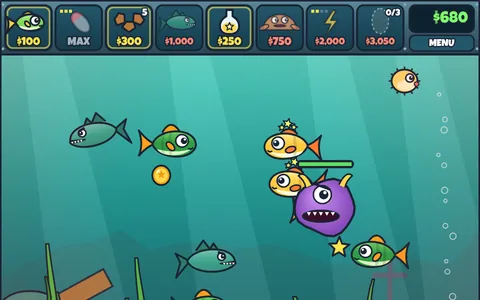
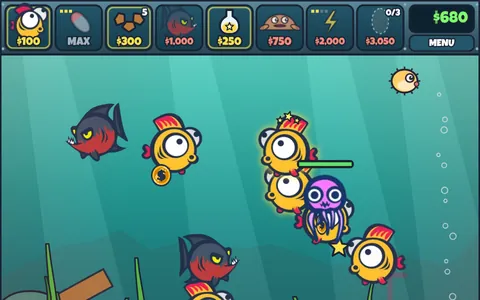
Reef Keeper: sprites from two free fish packs
Andrew Tidey's Fish Set (CC0): guppies with their sick and dead art, the
carnivore, coins, diamond, the jellyfish for the Gobbler (teal for the Twins)
and the first world's tank. Game Developer Studio's Cartoon fish (CC-BY 3.0):
animated breeder, muncher and leviathan, with hungry, dead and flash variants
made from the pixels at load time. Converted to WebP (about 300 KB in all).
The game falls back to its drawn art if an image can't load. Credited in
CREDITS.md, the README and sprites/LICENSE.txt.

diff --git a/Reef_Keeper/src/render.js b/Reef_Keeper/src/render.js
@@ -5,6 +5,7 @@
  * scaled to fit the canvas.
  */
 import { FRAME, BAR, TANK, FISH, COINS, ALIENS, FOOD, PETS } from './config.js';
+import { loadSprites, sprite, STRIPS } from './sprites.js';
 
 const INK = '#1a2433';
 const FONT = '"Luckiest Guy", "Chakra Petch", system-ui, sans-serif';
@@ -45,6 +46,11 @@ export const MENU = { x: 546, y: 47, w: 86, h: 21 };
 
 export function createRenderer(canvas) {
   const main = canvas.getContext('2d');
+  let spritesReady = false;
+  loadSprites(() => {
+    spritesReady = true;
+    bgKey = ''; // rebuild the tank with its painted background
+  });
   let ctx = main;
   let view = { scale: 1, dpr: 1, ox: 0, oy: 0, cssW: FRAME.w, cssH: FRAME.h };
   let bgKey = '';
@@ -98,6 +104,60 @@ export function createRenderer(canvas) {
     ctx.fillText(str, x, y);
   }
 
+  /* ---------- Sprites ---------- */
+
+  /** Draw an image (or one frame of a strip) centred at (x, y), `w` wide. */
+  function drawSprite(name, x, y, w, frame = 0) {
+    const img = sprite(name);
+    if (!img) return false;
+    const frames = STRIPS[name.replace(/-(hungry|dead|flash|teal)$/, '')] ?? 1;
+    const fw = (img.naturalWidth || img.width) / frames;
+    const fh = img.naturalHeight || img.height;
+    const h = (w * fh) / fw;
+    ctx.drawImage(img, (frame % frames) * fw, 0, fw, fh, x - w / 2, y - h / 2, w, h);
+    return true;
+  }
+
+  /** Swap in a crossfade: `a` at full strength, `b` on top at `k`. */
+  function blend(a, b, k, x, y, w, frame) {
+    drawSprite(a, x, y, w, frame);
+    if (k > 0.02 && sprite(b)) {
+      ctx.globalAlpha *= k;
+      drawSprite(b, x, y, w, frame);
+      ctx.globalAlpha /= k;
+    }
+  }
+
+  const hungerOf = (f, world) => (!f.dead && world.isHungry(f) ? Math.min(1, (world.time - f.fedUntil) / 240) : 0);
+  const eatPulse = (f) => (f.eatT > 0 ? 1 + 0.14 * Math.sin((f.eatT / 16) * Math.PI) : 1);
+
+  /** Andrew Tidey's fish (they face right). Dead fish use their own upright art. */
+  function tideyFish(base, f, t, world, width) {
+    if (f.dead) {
+      ctx.scale(1, -1); // drawFish turned the fish belly up; this art is drawn that way already
+      drawSprite(`${base}-dead`, 0, 0, width);
+      return;
+    }
+    const wob = Math.sin(t / 7 + f.phase) * 0.05;
+    const k = eatPulse(f);
+    ctx.rotate(wob);
+    ctx.scale(k, k * (1 + Math.sin(t / 5 + f.phase) * 0.025));
+    blend(base, `${base}-sick`, hungerOf(f, world), 0, 0, width);
+  }
+
+  /** Game Developer Studio's swimming fish (they face left, 12 frames). */
+  function cartoonFish(name, f, t, world, width) {
+    const frame = Math.floor(t * 0.35 + f.phase * 7);
+    ctx.scale(-1, 1);
+    if (f.dead) {
+      drawSprite(`${name}-dead`, 0, 0, width, 0);
+      return;
+    }
+    const k = eatPulse(f);
+    ctx.scale(k, k);
+    blend(name, `${name}-hungry`, hungerOf(f, world), 0, 0, width, frame);
+  }
+
   /* ---------- Tank background (cached per level and size) ---------- */
 
   function rock(g, x, y, w, h, fill, shade) {
@@ -139,6 +199,17 @@ export function createRenderer(canvas) {
     g.fillRect(0, TANK.y, TANK.w, TANK.h);
     let seed = level * 131 + 7;
     const rnd = () => ((seed = (seed * 16807) % 2147483647) / 2147483647);
+    // The first tank uses Andrew Tidey's painted background.
+    if (level === 0 && sprite('tank-shallows')) {
+      const img = sprite('tank-shallows');
+      const h = (TANK.w * img.naturalHeight) / img.naturalWidth;
+      g.drawImage(img, 0, FRAME.h - h, TANK.w, h);
+      g.restore();
+      plants = [];
+      bg = c;
+      bgKey = `${level}:${canvas.width}x${canvas.height}:${spritesReady}`;
+      return;
+    }
     // Far rocks, hazy.
     g.globalAlpha = 0.35;
     g.fillStyle = P.rock;
@@ -300,7 +371,7 @@ export function createRenderer(canvas) {
       plants.push({ x: 20 + rnd() * (TANK.w - 40), h: 50 + rnd() * 90, w: 9 + rnd() * 6, color: rnd() < 0.5 ? P.plant : P.plant2, phase: rnd() * 6, glow: level === 4 });
     }
     bg = c;
-    bgKey = `${level}:${canvas.width}x${canvas.height}`; // level here is the world index
+    bgKey = `${level}:${canvas.width}x${canvas.height}:${spritesReady}`; // level here is the world index
   }
 
   function drawPlants(t) {
@@ -414,6 +485,17 @@ export function createRenderer(canvas) {
 
   function guppy(f, t, world) {
     const L = world.sizeOf(f);
+    const art = `guppy-${['small', 'medium', 'large', 'large'][f.stage]}`;
+    if (sprite(art)) {
+      if (f.stage === 3 && !f.dead) {
+        ctx.shadowColor = '#ffe14d';
+        ctx.shadowBlur = 14;
+      }
+      tideyFish(art, f, t, world, L * 2.5);
+      ctx.shadowBlur = 0;
+      if (f.stage === 3 && !f.dead) for (let i = 0; i < 3; i++) starShape(-L * 0.35 + i * L * 0.35, -L * 1.05 - (i === 1 ? 5 : 0), 5 + (i === 1 ? 2 : 0), '#fff36b', Math.sin(t / 10 + i));
+      return;
+    }
     const H = L * 0.62;
     const hungry = !f.dead && world.isHungry(f);
     const hungerT = hungry ? Math.min(1, (world.time - f.fedUntil) / 240) : 0;
@@ -523,6 +605,7 @@ export function createRenderer(canvas) {
 
   function carnivore(f, t, world) {
     const L = FISH.carnivore.size;
+    if (sprite('predator')) return tideyFish('predator', f, t, world, L * 2.4);
     const H = L * 0.5;
     const hungry = !f.dead && world.isHungry(f);
     const body = f.dead ? '#9aa0a8' : hungry ? '#7fb39c' : '#3fa58c';
@@ -578,6 +661,23 @@ export function createRenderer(canvas) {
 
   function breeder(f, t, world) {
     const L = FISH.breeder.size;
+    if (sprite('fish-purple')) {
+      cartoonFish('fish-purple', f, t, world, L * 2.5);
+      if (!f.dead) {
+        // Her bow, so she reads as the breeder.
+        ctx.beginPath();
+        ctx.moveTo(L * 0.1, -L * 0.62);
+        ctx.lineTo(-L * 0.2, -L * 0.85);
+        ctx.lineTo(-L * 0.2, -L * 0.42);
+        ctx.closePath();
+        ctx.moveTo(L * 0.1, -L * 0.62);
+        ctx.lineTo(L * 0.4, -L * 0.85);
+        ctx.lineTo(L * 0.4, -L * 0.42);
+        ctx.closePath();
+        ink('#ffd84d', 2);
+      }
+      return;
+    }
     const H = L * 0.85;
     const hungry = !f.dead && world.isHungry(f);
     const body = f.dead ? '#a8a0a8' : hungry ? '#c9c79a' : '#ff8fc7';
@@ -612,6 +712,7 @@ export function createRenderer(canvas) {
 
   function leviathan(f, t, world) {
     const L = FISH.leviathan.size;
+    if (sprite('fish-black')) return cartoonFish('fish-black', f, t, world, L * 2.6);
     const H = L * 0.55;
     const hungry = !f.dead && world.isHungry(f);
     const body = f.dead ? '#9aa0a8' : hungry ? '#8a8fb0' : '#4a5bb8';
@@ -714,6 +815,7 @@ export function createRenderer(canvas) {
 
   function muncher(f, t, world) {
     const L = FISH.muncher.size;
+    if (sprite('fish-blue')) return cartoonFish('fish-blue', f, t, world, L * 2.4);
     const H = L * 0.7;
     const hungry = !f.dead && world.isHungry(f);
     const body = f.dead ? '#a0a0a0' : hungry ? '#b5a46a' : '#56c2e6';
@@ -767,6 +869,15 @@ export function createRenderer(canvas) {
 
   function coin(type, x, y, spin = 0, scale = 1) {
     const r = COINS[type].r * scale;
+    const art = { silver: 'coin-silver', gold: 'coin-gold', diamond: 'diamond' }[type];
+    if (art && sprite(art)) {
+      ctx.save();
+      ctx.translate(x, y);
+      if (type !== 'diamond') ctx.scale(0.35 + 0.65 * Math.abs(Math.cos(spin)), 1);
+      drawSprite(art, 0, 0, r * 2.3);
+      ctx.restore();
+      return;
+    }
     ctx.save();
     ctx.translate(x, y);
     if (type === 'silver' || type === 'gold') {
@@ -1174,7 +1285,13 @@ export function createRenderer(canvas) {
     ctx.save();
     ctx.translate(a.x, a.y);
     const r = spec.r;
-    if (a.kind === 'gobbler' || a.kind === 'twins') {
+    if ((a.kind === 'gobbler' || a.kind === 'twins') && sprite('jelly')) {
+      // Andrew Tidey's jellyfish, pulsing through its six frames.
+      const name = flash ? 'jelly-flash' : a.kind === 'twins' ? 'jelly-teal' : 'jelly';
+      const k = a.chomp > 0 ? 1 + 0.15 * Math.sin((a.chomp / 20) * Math.PI) : 1;
+      ctx.scale(k, k);
+      drawSprite(name, 0, 0, r * 1.5, Math.floor(t / 7));
+    } else if (a.kind === 'gobbler' || a.kind === 'twins') {
       // A wobbly blob, mostly mouth. Twins are smaller and teal.
       const twin = a.kind === 'twins';
       ctx.beginPath();
@@ -1537,7 +1654,7 @@ export function createRenderer(canvas) {
   /* ---------- Frame ---------- */
 
   function draw(world, ui, fx, t) {
-    if (bgKey !== `${world.world}:${canvas.width}x${canvas.height}`) buildBackground(world.world);
+    if (bgKey !== `${world.world}:${canvas.width}x${canvas.height}:${spritesReady}`) buildBackground(world.world);
     ctx = main;
     ctx.setTransform(1, 0, 0, 1, 0, 0);
     ctx.drawImage(bg, 0, 0);

diff --git a/Reef_Keeper/src/sprites.js b/Reef_Keeper/src/sprites.js
@@ -1,0 +1,89 @@
+/**
+ * Sprite art from two free packs (see sprites/LICENSE.txt):
+ * Andrew Tidey's "Fish Pack" (CC0) for guppies, the carnivore, coins, the
+ * diamond, the jellyfish alien and the first tank; Game Developer Studio's
+ * "Cartoon fish" (CC-BY 3.0) for the breeder, muncher and leviathan.
+ *
+ * Everything loads in the background; until an image is ready (or if it fails)
+ * the renderer draws its own vector art instead. Variants the packs don't
+ * have, a hungry tint, a grey dead fish and a white hit flash, are made here
+ * once from the pixels.
+ */
+
+const BASE = new URL('../sprites/', import.meta.url);
+
+const FILES = [
+  'guppy-small', 'guppy-small-sick', 'guppy-small-dead',
+  'guppy-medium', 'guppy-medium-sick', 'guppy-medium-dead',
+  'guppy-large', 'guppy-large-sick', 'guppy-large-dead',
+  'predator', 'predator-sick', 'predator-dead',
+  'coin-silver', 'coin-gold', 'diamond', 'jelly', 'tank-shallows',
+  'fish-black', 'fish-blue', 'fish-purple',
+];
+
+/** Strips: name -> frame count. Frames are laid out left to right. */
+export const STRIPS = { jelly: 6, 'fish-black': 12, 'fish-blue': 12, 'fish-purple': 12 };
+
+const images = {};
+let pending = FILES.length;
+
+function recolor(img, fn) {
+  const c = document.createElement('canvas');
+  c.width = img.naturalWidth || img.width;
+  c.height = img.naturalHeight || img.height;
+  const g = c.getContext('2d', { willReadFrequently: true });
+  g.drawImage(img, 0, 0);
+  const data = g.getImageData(0, 0, c.width, c.height);
+  const d = data.data;
+  for (let i = 0; i < d.length; i += 4) {
+    if (!d[i + 3]) continue;
+    const [r, gg, b] = fn(d[i], d[i + 1], d[i + 2]);
+    d[i] = r;
+    d[i + 1] = gg;
+    d[i + 2] = b;
+  }
+  g.putImageData(data, 0, 0);
+  return c;
+}
+
+const gray = (r, g, b) => 0.3 * r + 0.59 * g + 0.11 * b;
+// Hungry: drained towards a sickly olive, like the pack's own sick guppies.
+const hungry = (r, g, b) => {
+  const y = gray(r, g, b);
+  return [y * 0.55 + 150 * 0.45 * (y / 255) + 20, y * 0.55 + 160 * 0.45 * (y / 255) + 18, y * 0.45 + 70 * 0.45 * (y / 255)];
+};
+const dead = (r, g, b) => {
+  const y = gray(r, g, b) * 0.85 + 30;
+  return [y, y, y * 1.03];
+};
+const white = () => [255, 255, 255];
+// Twins: the purple jellyfish turned teal.
+const teal = (r, g, b) => [g * 0.6, Math.min(255, r * 0.75 + 40), Math.min(255, b * 0.85 + 20)];
+
+export function loadSprites(onReady = () => {}) {
+  if (typeof Image === 'undefined') return images;
+  for (const name of FILES) {
+    const img = new Image();
+    img.decoding = 'async';
+    img.onload = () => {
+      images[name] = img;
+      if (name.startsWith('fish-')) {
+        images[`${name}-hungry`] = recolor(img, hungry);
+        images[`${name}-dead`] = recolor(img, dead);
+      }
+      if (name === 'jelly') {
+        images['jelly-flash'] = recolor(img, white);
+        images['jelly-teal'] = recolor(img, teal);
+      }
+      if (name === 'predator') images['predator-flash'] = recolor(img, white);
+      if (--pending === 0) onReady();
+    };
+    img.onerror = () => {
+      if (--pending === 0) onReady();
+    };
+    img.src = new URL(`${name}.webp`, BASE).href;
+  }
+  return images;
+}
+
+export const sprite = (name) => images[name] ?? null;

diff --git a/Reef_Keeper/README.md b/Reef_Keeper/README.md
@@ -8,7 +8,22 @@ An aquarium money game in the style of PopCap's *Insaniquarium* (2001), written 
 - three egg pieces to clear a level;
 - pets that hatch from the eggs and help you.
 
-The fish, aliens, pets, art, music and sounds are original and drawn in code. The only files are the icon and two OFL fonts (Luckiest Guy, Balsamiq Sans).
+## Art
+
+- **Andrew Tidey's [Fish Set](https://opengameart.org/content/fish-set) (CC0):**
+  - the guppies, in normal, sick (hungry) and dead versions;
+  - the carnivore;
+  - the silver and gold coins and the diamond;
+  - the jellyfish, the Gobbler alien (tinted teal for the Twins);
+  - the first world's tank.
+- **Robert Brooks / [Game Developer Studio](https://www.gamedeveloperstudio.com)'s [Cartoon fish](https://opengameart.org/content/cartoon-fish) (CC-BY 3.0):** the swimming breeder (purple), muncher (blue) and leviathan (black). The hungry tint and grey dead versions are made from these sprites by `src/sprites.js` when the game loads.
+- **Drawn in code, in the same outlined cartoon style:**
+  - the other fish, aliens and pets;
+  - the star, pearl, chest, food and grubs;
+  - the other four tanks.
+- **Fonts:** Luckiest Guy and Balsamiq Sans (OFL).
+
+`sprites/LICENSE.txt` lists which file comes from which pack. If an image can't load, the game draws its own version instead.
 
 ## Modes
 
@@ -106,6 +121,7 @@ CI runs it from `.github/workflows/smoke.yml`.
 | `src/config.js` | Balance and content: fish, coins, food, zapper, aliens, pets, worlds, level builder, endless and free tank |
 | `src/pars.js` | Target time per level (generated) |
 | `src/sim.js` | Game logic: fish AI, hunger and growth, coins, food, grubs and potions, pets, aliens, bombs, shop. Pure, no DOM |
+| `src/sprites.js` | Loads the sprite packs and makes the hungry, dead, flash and teal variants |
 | `src/render.js` | The 640 × 480 frame: shop bar, money box, tank, every character, coins, effects, tooltips, tutorial hints |
 | `src/fx.js` | Ripples, bubbles, stars, floating text, coins flying to the money box, shake |
 | `src/audio.js` | WebAudio effects and an original calm loop that turns tense when an alien arrives |

diff --git a/CREDITS.md b/CREDITS.md
@@ -31,7 +31,9 @@ Entries marked **unknown** could not be traced. Corrections are welcome.
 | Tron | [momajd/Tron](https://github.com/momajd/Tron) (the original DOM version; the arena, AI and soundtrack were rewritten here) | momajd | **unknown** (no licence file found) |
 | Wahdatio | [monsterkodi/konnekt](https://github.com/monsterkodi/konnekt) (CoffeeScript sources in `Wahdatio/src/`) | monsterkodi | Unlicense |
 | Sprite tutorials (`Sprites_Games/*_project`) | Frank's Laboratory JavaScript game development tutorials and their sprite sheets | Frank's Laboratory | assets: **unknown** terms |
-| Breakout, Snake, Minesweeper, Crate Lab, Reef Keeper | Written for this collection (Reef Keeper's fish, art, music and sounds are original; the genre comes from PopCap's 2001 *Insaniquarium*) | ibra-kdbra | MIT |
+| Breakout, Snake, Minesweeper, Crate Lab, Reef Keeper | Written for this collection (Reef Keeper's genre comes from PopCap's 2001 *Insaniquarium*; its sprites are credited below, the rest of its art, music and sounds are original) | ibra-kdbra | MIT |
+| Reef Keeper sprites: guppies, carnivore, coins, diamond, jellyfish, first tank (`Reef_Keeper/sprites/`) | [Fish Set](https://opengameart.org/content/fish-set) | Andrew Tidey | CC0 |
+| Reef Keeper sprites: breeder, muncher, leviathan (`Reef_Keeper/sprites/fish-*.webp`) | [Cartoon fish](https://opengameart.org/content/cartoon-fish) | Robert Brooks, [Game Developer Studio](https://www.gamedeveloperstudio.com) | CC-BY 3.0 |
 
 ## Art Lab
 
